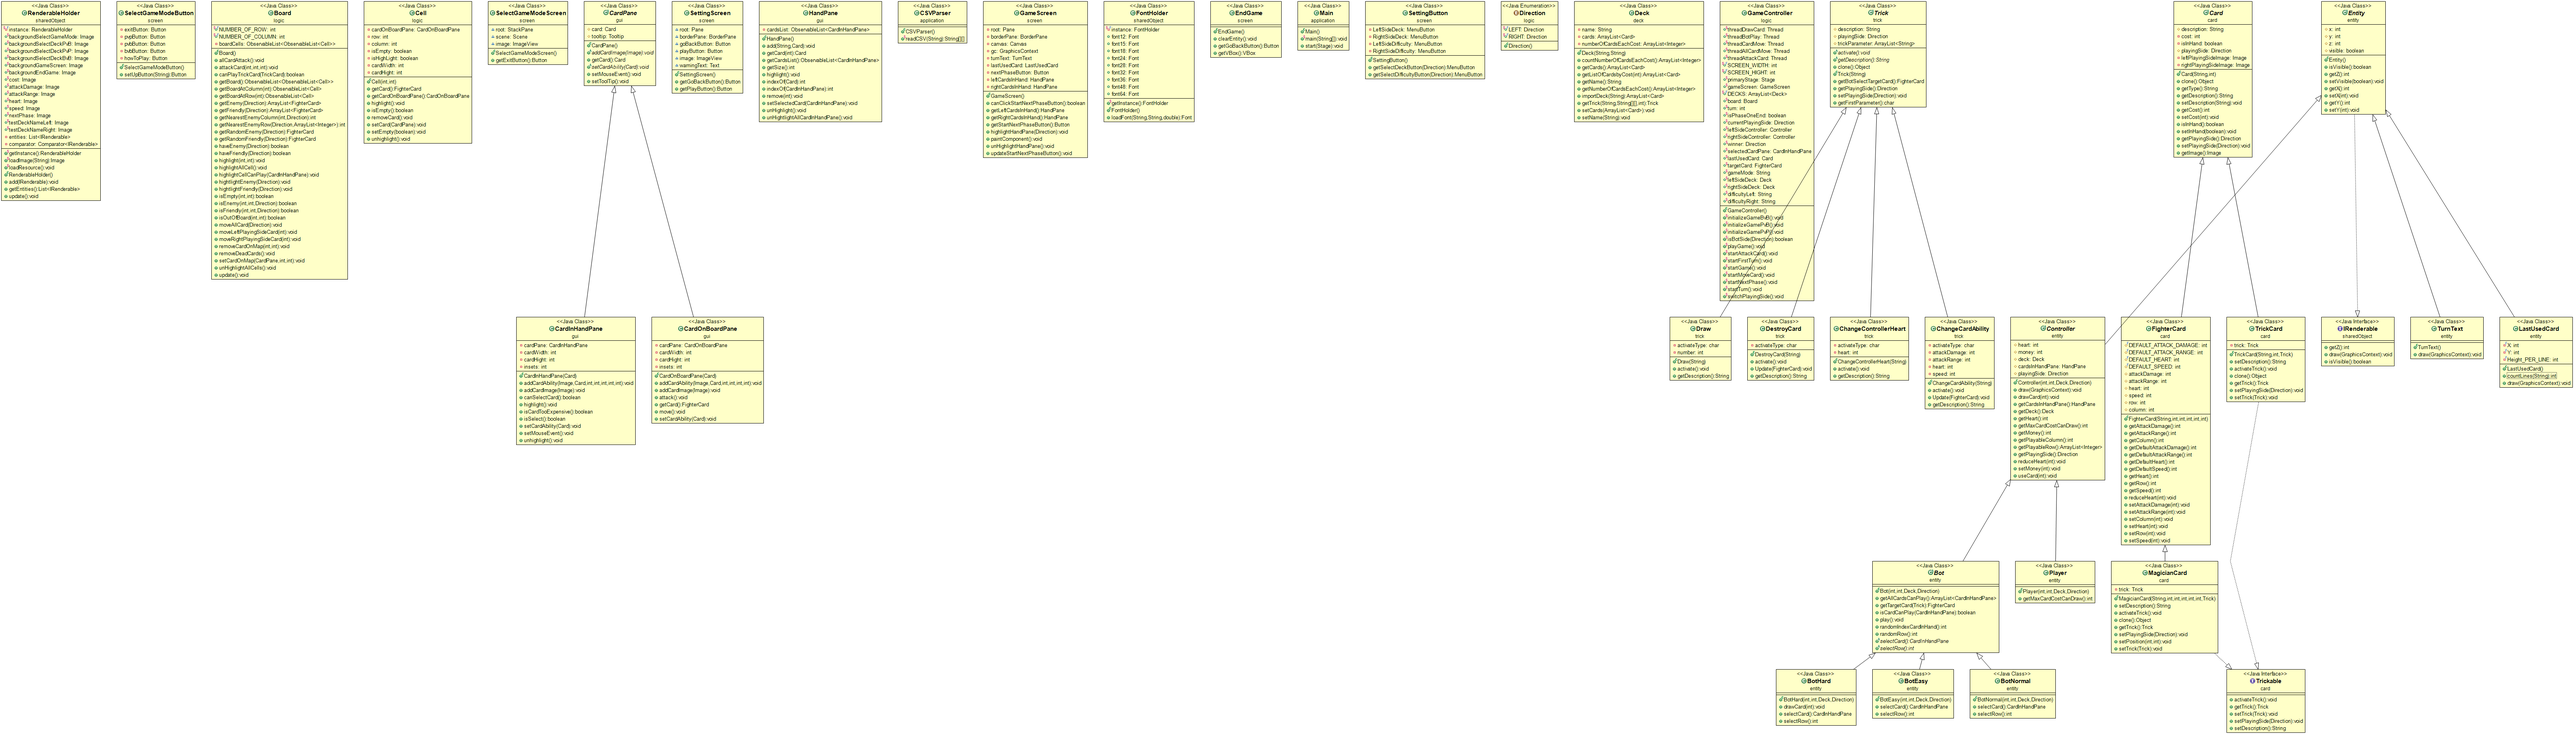
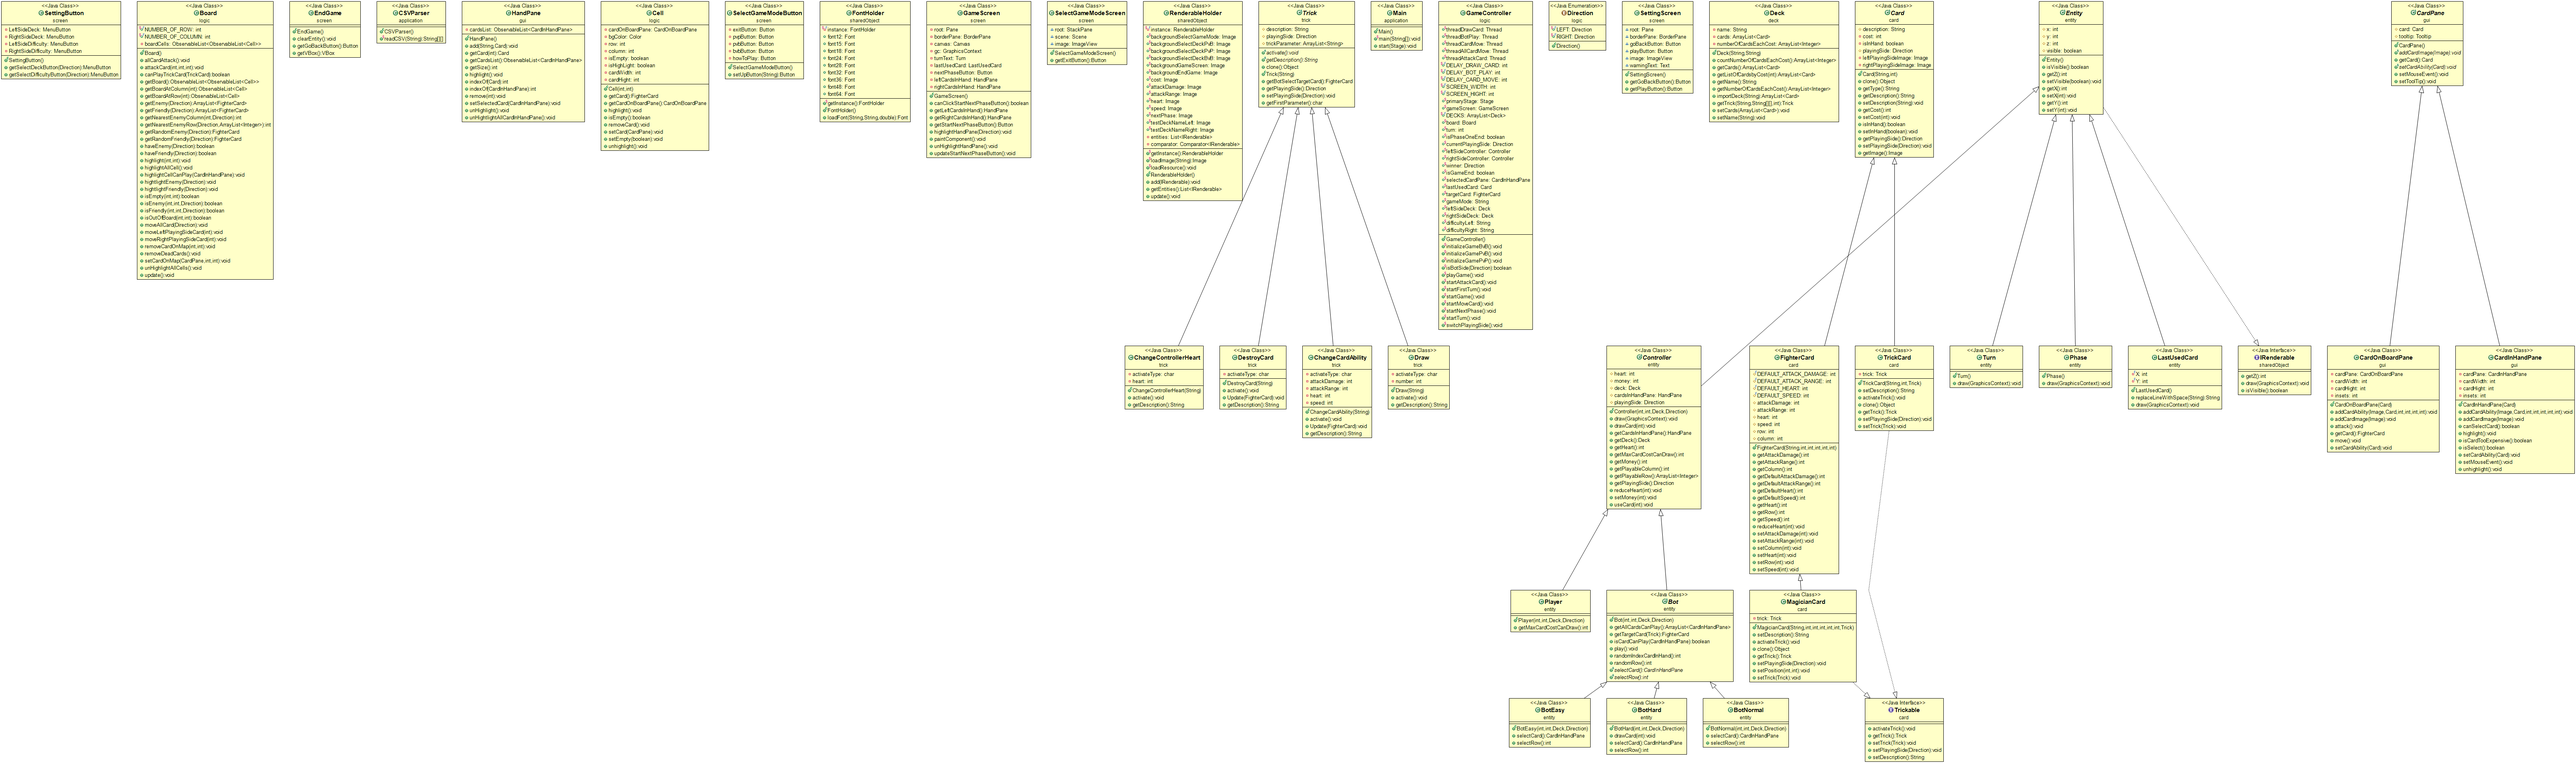
Update phase

Changed region(s): [[0.0, 0.0, 0.9995, 1.0], [0.7809, 0.0, 0.9683, 0.2161], [0.1874, 0.4323, 0.3124, 0.6176]]

diff --git a/src/screen/GameScreen.java b/src/screen/GameScreen.java
@@ -2,6 +2,7 @@ package screen;
 
 import entity.Bot;
 import entity.LastUsedCard;
+import entity.Phase;
 import entity.Turn;
 import gui.HandPane;
 import javafx.animation.AnimationTimer;
@@ -34,7 +35,8 @@ public class GameScreen {
 	private BorderPane borderPane;
 	private Canvas canvas;
 	private GraphicsContext gc;
-	private Turn turnText;
+	private Turn turn;
+	private Phase phase;
 	private LastUsedCard lastUsedCard;
 	private Button nextPhaseButton;
 	private HandPane leftCardsInHand;
@@ -45,7 +47,8 @@ public class GameScreen {
 		canvas = new Canvas(GameController.SCREEN_WIDTH, GameController.SCREEN_HIGHT);
 		nextPhaseButton = getStartNextPhaseButton();
 		borderPane = new BorderPane();
-		turnText = new Turn();
+		turn = new Turn();
+		phase = new Phase();
 		lastUsedCard = new LastUsedCard();
 		borderPane.setPrefSize(GameController.SCREEN_WIDTH, GameController.SCREEN_HIGHT);
 		leftCardsInHand = GameController.leftSideController.getCardsInHandPane();

diff --git a/src/entity/Phase.java b/src/entity/Phase.java
@@ -1,17 +1,29 @@
 package entity;
 
 import javafx.scene.canvas.GraphicsContext;
+import logic.GameController;
 import sharedObject.RenderableHolder;
 
 public class Phase extends Entity {
+	private int x = 590;
+	private int y = 10;
 
 	public Phase() {
 		RenderableHolder.getInstance().add(this);
 		this.setVisible(true);
 	}
+
 	@Override
 	public void draw(GraphicsContext gc) {
-		gc.drawImage(null, y, x);
+		if (GameController.threadAllCardMove != null && GameController.threadAllCardMove.isAlive()) {
+			gc.drawImage(RenderableHolder.PhaseMove, x, y, 100, 100);
+		}
+		else if (GameController.threadBotPlay != null && GameController.threadBotPlay.isAlive()) {
+			gc.drawImage(RenderableHolder.PhaseBot, x, y, 100, 100);
+		}
+		else if (GameController.threadAttackCard != null && GameController.threadAttackCard.isAlive()) {
+			gc.drawImage(RenderableHolder.PhaseFight, x, y, 100, 100);
+		}
 	}
 
 }

diff --git a/src/sharedObject/RenderableHolder.java b/src/sharedObject/RenderableHolder.java
@@ -24,6 +24,9 @@ public class RenderableHolder {
 	public static Image nextPhase;
 	public static Image testDeckNameLeft; // TODO Remove
 	public static Image testDeckNameRight;
+	public static Image PhaseBot;
+	public static Image PhaseFight;
+	public static Image PhaseMove;
 
 	static {
 		loadResource();
@@ -53,6 +56,10 @@ public class RenderableHolder {
 		RenderableHolder.heart = loadImage("heart.png");
 		RenderableHolder.speed = loadImage("speed.png");
 		RenderableHolder.nextPhase = loadImage("nextPhase.png");
+		RenderableHolder.PhaseBot = loadImage("PhaseBot.png");
+		RenderableHolder.PhaseFight = loadImage("PhaseFight.png");
+		RenderableHolder.PhaseMove = loadImage("PhaseMove.png");
+		
 	}
 
 	private List<IRenderable> entities;
